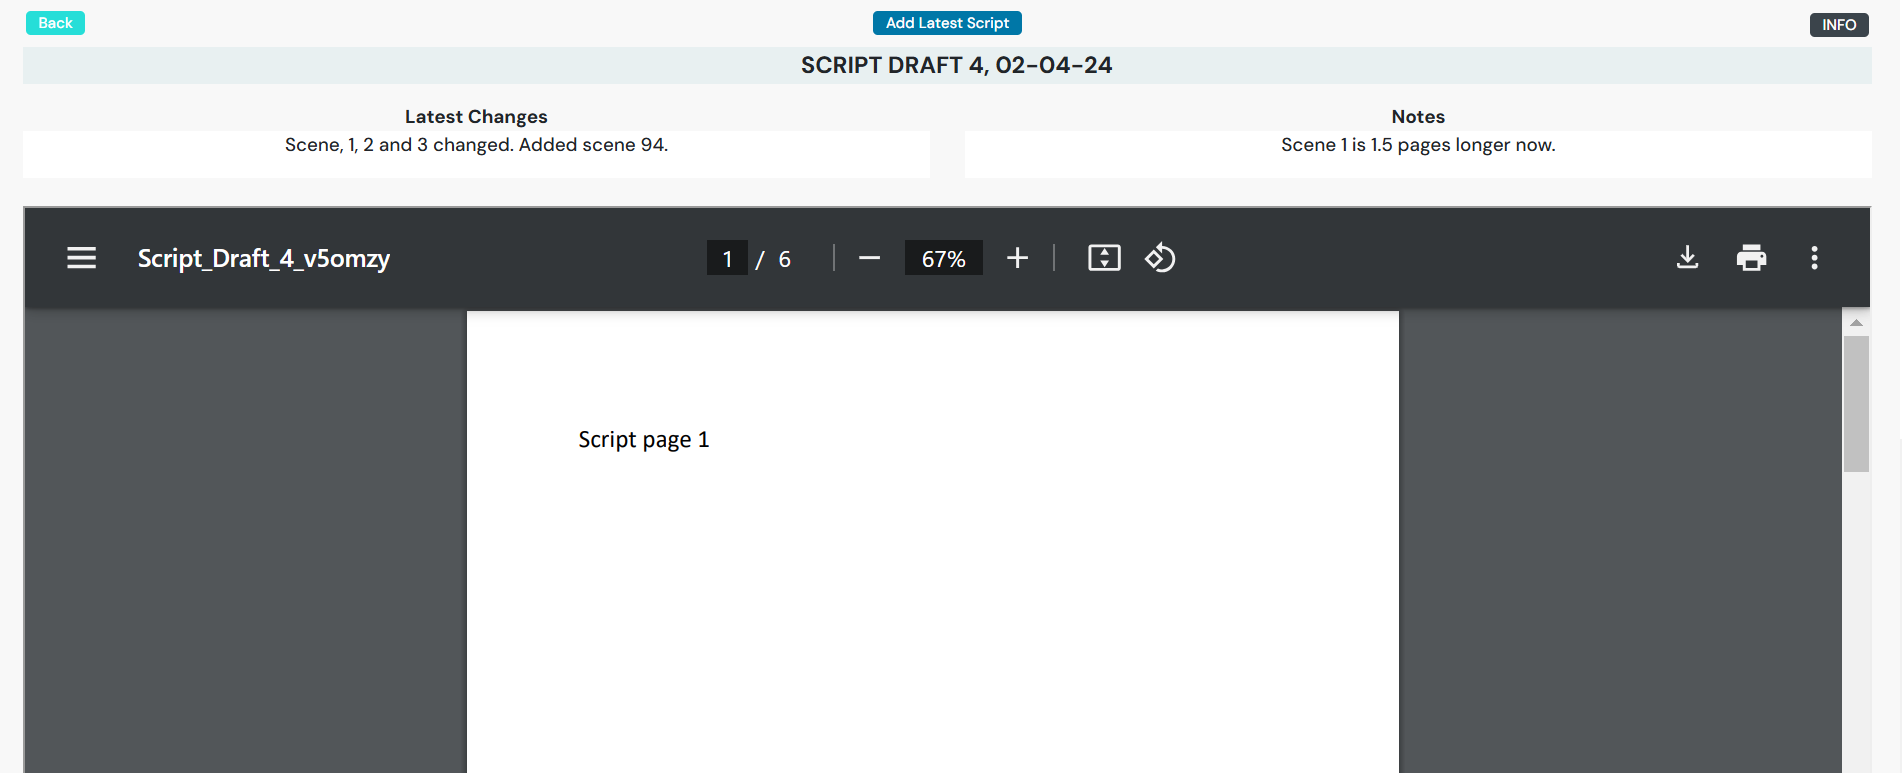
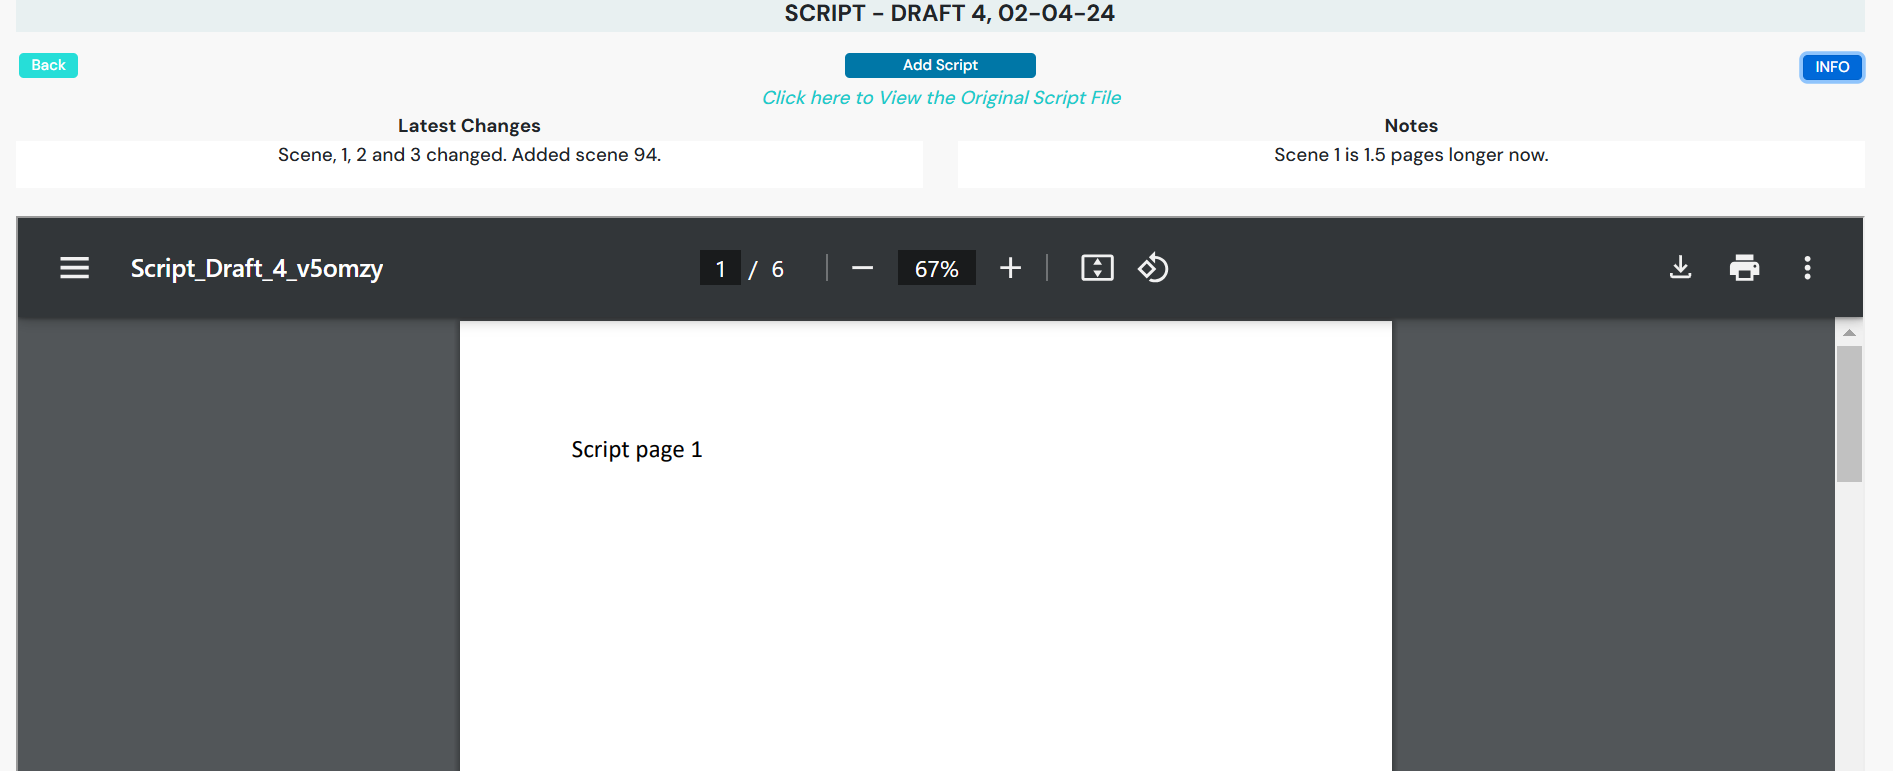
Script and scene Script changes

diff --git a/src/pages/scenes/scriptAndSceneScript/ScriptSceneUpload.js b/src/pages/scenes/scriptAndSceneScript/ScriptSceneUpload.js
@@ -62,7 +62,7 @@ const ScriptUpload = ({script1, number1, fileName1, id, setAddScript }) => {
       }
 
       const buttons = (
-        <div className="text-center">    
+        <div className="text-center mt-3">    
           <Button
             className={`${btnStyles.Button} ${btnStyles.Blue} px-3 px-md-5 mr-3`}
             onClick={() => setAddScript(false)}
@@ -77,68 +77,67 @@ const ScriptUpload = ({script1, number1, fileName1, id, setAddScript }) => {
       );
 
   return (
-    <div>
-      <Form onSubmit={handleSubmit}>
+    <div className="mb-3">
         <Row>
         <Col className="py-2 p-0 p-md-2" md={{span: 6, offset: 3} } >
-            {/* script */}
-            <Container
-              className={`${appStyles.Content} ${styles.Container
-            } d-flex flex-column justify-content-center`}
-            >
-              <Form.Group className="text-center pt-3">
-                  {script ? (
-                    <>  
-                      <figure>
-                        <iframe title="Script"
-                         className={appStyles.iframe} src={script} />
-                      </figure>
-                      {fileName && <p>{fileName} </p> }
-                      <div>
-                        <Form.Label
-                          className={`${btnStyles.Button} ${btnStyles.Blue} btn`}
-                          htmlFor="script-upload"
-                        >
-                          Change the Script
-                        </Form.Label>
-                      </div>
-                    </>
-                  ) : (
+        <h5 style={{ textTransform: 'uppercase'}} 
+          className={`mt-1 mb-1 pl-3 ${styles.SubTitle } text-center`}>
+          Add Latest Script 
+        </h5>
+        <Form className={`${styles.Back} `} onSubmit={handleSubmit}>
+        {/* script */}
+        <div
+          className={` d-flex flex-column justify-content-center`}
+        >
+          <Form.Group className="text-center pt-3">
+              {script ? (
+                <>  
+                  <figure>
+                    <iframe title="Script"
+                      className={appStyles.iframe} src={script} />
+                  </figure>
+                  {fileName && <p className={`${styles.Italic}`} >File name: {fileName} </p> }
+                  <div>
                     <Form.Label
-                      className="d-flex justify-content-center"
+                      className={`${btnStyles.Button} ${btnStyles.Blue} btn mt-3`}
                       htmlFor="script-upload"
                     >
-                      <Asset
-                        src={Upload}
-                        height={50}
-                        width={50}
-                        message="Upload Script"
-                      />
+                      Click Here to Select Latest Script File
                     </Form.Label>
-                  )}
-    
-                  <Form.Control
-                    type="file"
-                    id="script-upload"
-                    onChange={handleChangeScript}
-                    ref={scriptInput}
+                  </div>
+                </>
+              ) : (
+                <Form.Label
+                  className="d-flex justify-content-center"
+                  htmlFor="script-upload"
+                >
+                  <Asset
+                    src={Upload}
+                    height={50}
+                    width={50}
+                    message="Upload Script"
                   />
-                </Form.Group>
-                {errors?.script?.map((message, idx) => (
-                  <Alert variant="warning" key={idx}>
-                    {message}
-                  </Alert>
-                ))}
-            </Container>
-          </Col>
-        </Row>
-        <Row>
-          <Col className="text-center">
-          <Container className= {`mt-3 ${styles.Container}`} >
-            {buttons}</Container>
-          </Col>
-        </Row>
+                </Form.Label>
+              )}
+
+              <Form.Control
+                type="file"
+                id="script-upload"
+                onChange={handleChangeScript}
+                ref={scriptInput}
+              />
+            </Form.Group>
+            {errors?.script?.map((message, idx) => (
+              <Alert variant="warning" key={idx}>
+                {message}
+              </Alert>
+            ))}
+        </div>
+        {buttons}
         </Form>
+        <hr/>
+        </Col>
+        </Row>
     </div>
   )
 }

diff --git a/src/pages/scenes/scriptAndSceneScript/LatestScript.js b/src/pages/scenes/scriptAndSceneScript/LatestScript.js
@@ -71,6 +71,10 @@ const LatestScript = () => {
         <div>
             { hasLoaded ? (
                 <>
+                <h5 style={{ textTransform: 'uppercase'}} 
+                className={`mt-1 mb-3 pl-3 py-1 ${styles.SubTitle } text-center`}>
+                SCRIPT - {draft}
+                </h5>
             <Row className='my-1'>
             <Col xs={4}>
             <Button
@@ -84,10 +88,10 @@ const LatestScript = () => {
               <>
               {script ? (
               <>
-              <Col className="text-center" xs={4} >
+              <Col className="text-center px-0" xs={4} >
               <Button onClick={() => setEditScript(editScript => !editScript)} 
-                  className={`${btnStyles.Button}  ${btnStyles.Bright}`}>
-                  Add Latest Script
+                  className={`${btnStyles.Button}  ${btnStyles.Bright} px-md-5`}>
+                  Add Script
               </Button>
             </Col>
             <Col xs={4}>
@@ -140,14 +144,15 @@ const LatestScript = () => {
             <Row >
             <Col xs={12} > 
                 <>
-                <h5 style={{ textTransform: 'uppercase'}} 
-                className={`mt-1 mb-3 pl-3 py-1 ${styles.SubTitle } text-center`}>
-                SCRIPT {draft}
-                </h5>
                     {script ? (
                         <> 
+                        <div className={` text-center`} >
+                          <Link to={{ pathname: script }} target="_blank" 
+                          className={`${styles.ViewScript } text-center`} >
+                          Click here to View the Original Script File </Link>
+                          </div>
                         <Row className='mb-3'>
-                        <Col xs={6} >
+                        <Col xs={12} md={6} >
                         <p className= {`text-center ${styles.Bold}`} >
                           Latest Changes
                         </p>
@@ -155,7 +160,7 @@ const LatestScript = () => {
                         {latest_changes}
                         </p>
                         </Col>
-                        <Col xs={6} >
+                        <Col xs={12} md={6} >
                         <p className= {`text-center ${styles.Bold}`} >
                           Notes
                         </p>
@@ -172,9 +177,9 @@ const LatestScript = () => {
                         </div>
                         </Col>
                         </Row>
-                          <div className='text-center'>
+                          {/* <div className='text-center'>
                           <Link to={{ pathname: script }} target="_blank" >VIEW SCRIPT</Link>
-                          </div>
+                          </div> */}
                         </>
                     )
                     : (

diff --git a/src/pages/scenes/scriptAndSceneScript/LatestScriptAdd.js b/src/pages/scenes/scriptAndSceneScript/LatestScriptAdd.js
@@ -119,7 +119,7 @@ const LatestScriptAdd = ({setAddScript }) => {
       </Row>
       {/* changes notes */}
       <Row className="mt-3">
-      <Col className="d-flex justify-content-center p-0 p-md-2" xs={6}>
+      <Col className="d-flex justify-content-center p-0 p-md-2" xs={12} md={6}>
         <Form.Group controlId="latest_changes" className={`${styles.Width2} `} >
             <Form.Label className={`${styles.BoldScene}`} >LATEST CHANGES</Form.Label>
             <Form.Control 
@@ -138,7 +138,7 @@ const LatestScriptAdd = ({setAddScript }) => {
           </Alert>
         ))}
       </Col>
-      <Col className="d-flex justify-content-center p-0 p-md-2" xs={6}>
+      <Col className="d-flex justify-content-center p-0 p-md-2" xs={12} md={6}>
       <Form.Group controlId="notes" className={`${styles.Width2} `} >
           <Form.Label className={`${styles.Bold}`} >NOTES</Form.Label>
           <Form.Control 

diff --git a/src/pages/scenes/scriptAndSceneScript/ScriptScene.js b/src/pages/scenes/scriptAndSceneScript/ScriptScene.js
@@ -110,6 +110,11 @@ const ScriptScene = () => {
                  setAddScript={setAddScript} />  ) }
             </Col>
             </Row>
+            <div className={` text-center`} >
+            <Link to={{ pathname: script }} target="_blank" 
+            className={`${styles.ViewScript } text-center`} >
+            Click here to View the Original Script File </Link>
+            </div>
             <Row >
             <Col xs={12} > 
                 <>
@@ -123,9 +128,6 @@ const ScriptScene = () => {
                         </div>
                         </Col>
                         </Row>
-                          <div className='text-center'>
-                          <Link to={{ pathname: script }} target="_blank" >VIEW SCRIPT</Link>
-                          </div>
                         </>
                     )
                     : (

diff --git a/src/pages/scenes/info/InfoScriptScene.js b/src/pages/scenes/info/InfoScriptScene.js
@@ -9,16 +9,10 @@ const InfoScriptScene = () => {
     <div>
       <Row className="mb-3">
         <Col md={{span: 10, offset: 1}}>
-        <div className={`text-center px-3 pt-1 ${styles.SubTitle2 }`}>
+        <div className={`text-center px-3 pt-1 ${styles.SubTitle2 } pb-2`}>
         <h5 className={`text-center `} >INFO</h5>  
         <p>Upload the Scene script pages here.
           Only PDF will be accepted.
-        </p>
-        <p>
-        Click on te Download or Print Icons to download or print the Script.
-        </p>
-        <p>Click on the "View Script as PDF" link at the bottom of the page to view the Script in it's 
-          original PDF format.
         </p>
          </div> 
         </Col>

diff --git a/src/pages/scenes/info/InfoLatestScript.js b/src/pages/scenes/info/InfoLatestScript.js
@@ -11,8 +11,8 @@ const InfoLatestScript = () => {
         <Col md={{span: 10, offset: 1}}>
         <div className={`text-center px-3 pt-1 ${styles.SubTitle2 }`}>
         <h5 className={`text-center `} >INFO</h5>  
-        <p>Uploat the entire project script for each re-write here.
-            Only PDF will be accepted.
+        <p>Uploat the latest script here.
+            Only PDF files will be accepted.
              </p>
          </div> 
         </Col>

diff --git a/src/styles/Scene.module.css b/src/styles/Scene.module.css
@@ -6,6 +6,16 @@
   font-style: italic;
 }
 
+.ViewScript {
+  color: rgb(31, 203, 203);
+  font-style: italic;
+}
+
+.ViewScript:hover {
+  color: #228087;
+  cursor: pointer;
+}
+
 .Para {
   min-height: 35px;
 }

diff --git a/TESTING.md b/TESTING.md
@@ -408,6 +408,22 @@ Description: This page contains the whole script. It also had "Latest Changes" a
 <img src="documentation/readme-images/scriptchange3.png" width="50%">
 </h2>
 
+- Use Case: View the Script in it's original format<br>
+
+  1. Click on the "Click here to View the Original Script file" link on the Script page.<br>
+  2. The Script opens on a new page in its original PDF format.
+
+  - Use Case: Download the Script<br>
+
+  1. Click on the "Download" icon on the Script.<br>
+  2. The Script is downloaded.<br>
+
+ - Use Case: Print the Script<br>
+
+  1. Click on the "Print" icon on the Script.<br>
+  2. The Print menu opens. 
+  3. Click Print and the Script is printed out.<br>
+
 #### Scene Page
 Description: This page contains the Breakdown, Characters and Background, Scene Script, Storyboard, Shotlists, and Workspaces.<br>
 
@@ -613,8 +629,8 @@ Description: View, Download, Print or Change the Scene Script<br>
 
 - Use Case: View the Scene Script in it's original PDF format<br>
 
-  1. Click on the "View Script as PDF" link at the bottom of the Script page.
-  2. The Script opens on a new tab in it's original PDF format.
+  1. Click on the "Click here to View the original Script file" link on the Script page.
+  2. The Script opens in a new tab in it's original PDF format.
 
 - Use Case: Download the Scene Script<br>
 
